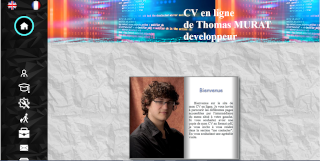
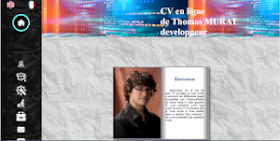
ajout page resume pour mobile

diff --git a/assets/css/style.css b/assets/css/style.css
@@ -443,7 +443,7 @@ h3 {
     padding-top: 10%;
     background-image: url("../img/fondFeuilleFroisser.jpg");
 }
-#contentPagePortfolio, #contentPageExperience {
+#contentPagePortfolio, #contentPageExperience, #contentPageResume {
     float: left;
     background-image: url("../img/fondFeuilleFroisser.jpg");
 }
@@ -514,6 +514,74 @@ h2 {
     padding-right: 2%;
     padding-left: 5%;
 }
+/* Page formation */
+#resume{
+    width: 90%;
+    margin-top: 5%;
+    margin-left: 5%;
+    margin-bottom: 5%;
+    height: 1222px;
+    border-style: inset;
+    box-shadow: 8px 8px 12px rgb(75, 80, 80);
+}
+#resumeTitle, #skillsTitle, #contactTitle {
+    padding-top: 1px;
+    padding-bottom: 1px;
+    height: fit-content;
+    text-align: center;
+    border-bottom-style: outset;
+    background-image: url("../img/fondParchemin.jpg");
+}
+#parcourtInitial h3 {
+    margin-top: 5%;
+}
+#parcourtInitial {
+    float: left;
+    width: 100%;
+    background-image: linear-gradient(to right, grey , white 5%, white 95%, grey);
+}
+#fondBac {
+    height: 146px;
+    width: 90%;
+    margin: 0 auto;
+    margin-bottom: 5%;
+    background-image: url("../img/FondStJo.jpg");
+}
+#fondPrepa {
+    margin-top: 5%;
+    height: 132px;
+    width: 90%;
+    margin: 0 auto;
+    margin-bottom: 5%;
+    background-image: url("../img/fondPierredAilly.jpg");
+}
+#urbanisme {
+    float: left;
+    width: 100%;
+    background-image: linear-gradient(to right, grey , white 5%, white 95%, grey);
+}
+#fondPolytech {
+    width: 90%;
+    height: 263px;
+    margin: 0 auto;
+    margin-bottom: 5%;
+    background-image: url("../img/fondPolytech.jpg");
+}
+div[id*="fond"] p {
+    color: rgb(253, 253, 253);
+    text-shadow: 2px 2px rgb(12, 12, 12); 
+}
+#pracourtDev {
+    float: left;
+    width: 100%;
+    background-image: linear-gradient(to right, grey , white 5%, white 95%, grey);
+}
+.logoNumerique {
+    margin-left: 30%;
+}
+#lamanu {
+    margin-top: 30px;
+}
 /* page Experiences */
 #ExperiencesTitle, #portfolioTitle {
     width: 90%;
@@ -542,10 +610,10 @@ img[alt*="capture"], .contentExperiences img {
     padding-top: 5%;
     padding-bottom: 5%;
 }
-.contentPortfolio h3, .contentExperiences h3 {
+.contentPortfolio h3, #resume h3, .contentExperiences h3 {
     font-weight: bold;
 }
-.contentPortfolio p, .contentExperiences p {
+.contentPortfolio p, #pracourtDev p, .contentExperiences p {
     padding-right: 5%;
     padding-left: 5%;
     text-align: justify;
@@ -556,7 +624,7 @@ img[alt*="capture"], .contentExperiences img {
     padding-right: 5%;
 }
 /* page me contacter */
-#postalAdress, #emailAdress {
+#postalAdress, #resume h3, #emailAdress {
     width: 80%;
     margin-left: 10%;
     border-bottom: 1px solid rgb(12, 12, 12);

diff --git a/resumeFr.html b/resumeFr.html
@@ -122,13 +122,13 @@
                                     <picture>
                                         <img class="logoNumerique" src="assets/img/logoCNFDI.jpg">
                                     </picture>
-                                    <p>Depuis Janvier 2020: Formation avec le CNFDI option:informatique et programmation.</p> 
+                                    <p>Depuis Janvier 2020: Formation avec le CNFDI option: informatique et programmation.</p> 
                                 </div>
                                 <div id="lamanu">
                                     <picture>
                                         <img class="logoNumerique" src="assets/img/logoLamanu.png">
                                     </picture>
-                                    <p>Depuis Mars 2020: Formation avec LAMANU option:Développeur Web et Web Mobile (DWWM)</p>
+                                    <p>Depuis Mars 2020: Formation avec LAMANU option: Développeur Web et Web Mobile (DWWM)</p>
                                 </div>
                             </div>
                         </div>
